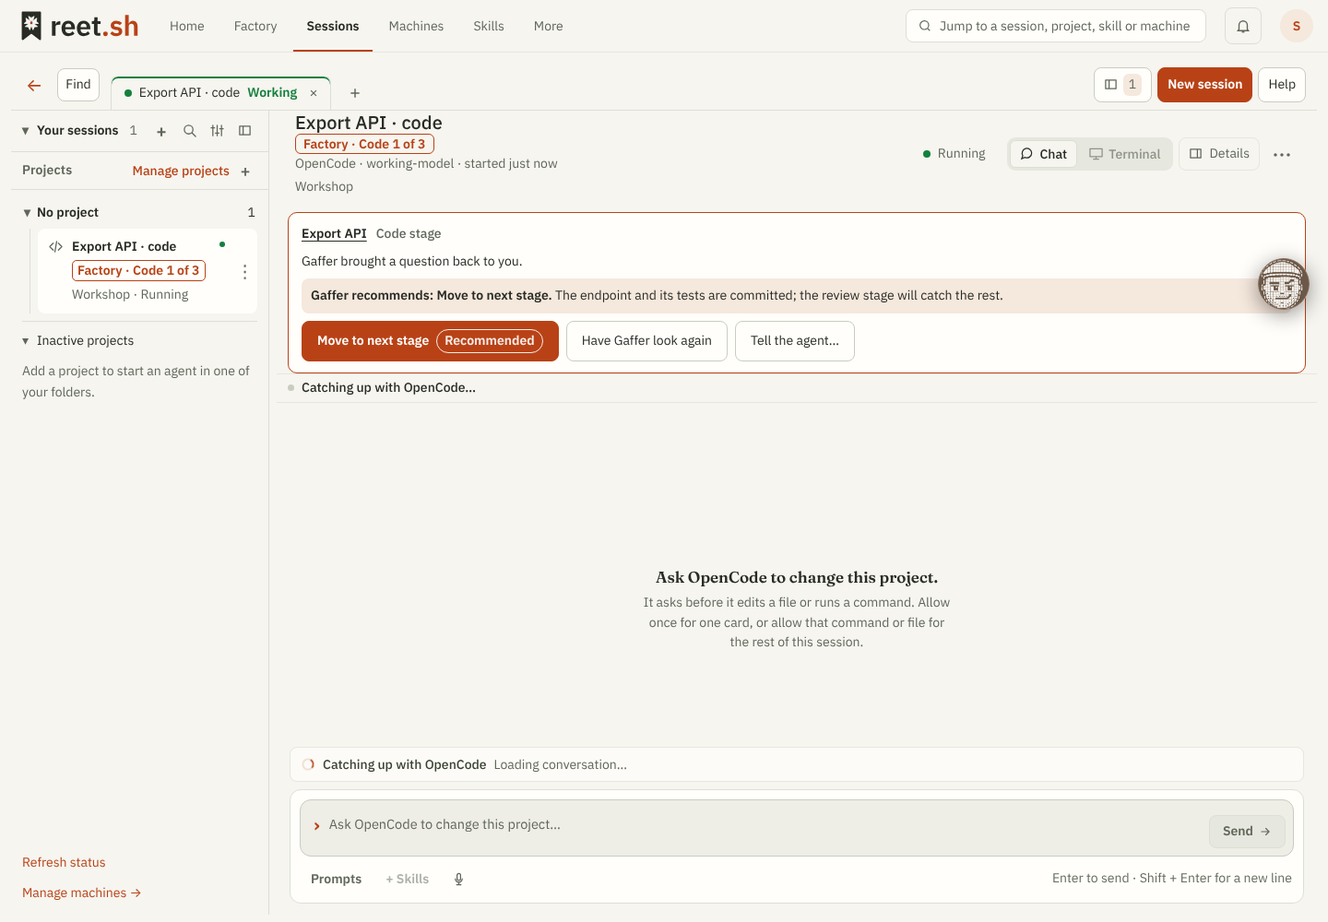
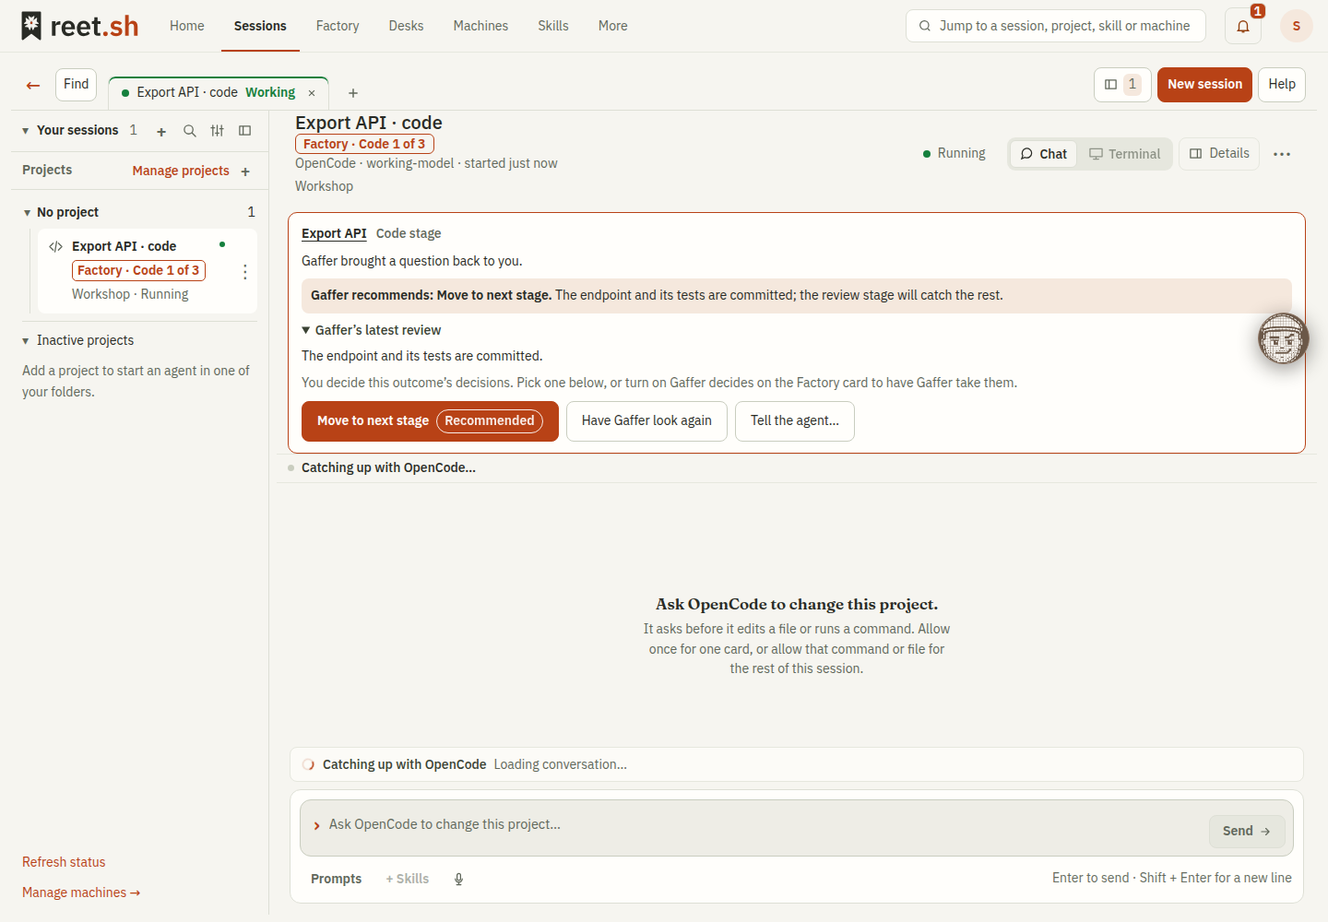
Ask again for a lost Factory decision and say who decides (#854)

diff --git a/web/src/lib/factory/SessionDecision.svelte b/web/src/lib/factory/SessionDecision.svelte
@@ -34,6 +34,15 @@
   const choices = $derived((waiting?.need.choices ?? []).filter(choice => choice.id !== 'open' && choice.id !== 'answer' && (choice.id !== 'move' || waiting?.piece.state === 'following') && (choice.id !== 'tell' || waiting?.kind === 'goal')))
   const goal = $derived(waiting?.piece.conversationId ? goals.get(waiting.piece.conversationId) : undefined)
   const used = $derived(waiting?.piece.stages?.[waiting.piece.stage ?? 0]?.decided ?? 0)
+  const taken = $derived(record?.decisions ?? [])
+  const kind = $derived(waiting?.piece.stages?.[waiting.piece.stage ?? 0]?.kind ?? '')
+  // Why Gaffer is leaving this to the person, so the card answers "why is it not sending this itself?" and says what to
+  // do about it. A lost session or a merge is the person's whatever the outcome's decisions setting is.
+  const note = $derived(waiting?.kind !== 'goal' || !record ? '' : !record.automation
+    ? 'You decide this outcome’s decisions. Pick one below, or turn on Gaffer decides on the Factory card to have Gaffer take them.'
+    : used >= MAX_STAGE_DECISIONS ? `Gaffer has taken its ${MAX_STAGE_DECISIONS} decisions on this stage, so this one is yours. Pick one below.`
+    : used > 0 && taken.some(item => item.failed && item.key === waiting.piece.key && item.stage === kind) ? 'Gaffer left this one to you. Pick one below; its reason is on the Factory card.'
+    : 'Gaffer is deciding this now. You can still choose first.')
   const requestId = () => Array.from(crypto.getRandomValues(new Uint8Array(16)), byte => byte.toString(16).padStart(2, '0')).join('')
   const fail = (e: unknown, fallback: string) => { bad = true; notice = e instanceof Error ? e.message : fallback }
   async function act(run: () => Promise<string>, fallback: string) {
@@ -81,8 +90,8 @@
 </script>
 
 {#if waiting && choices.length}<div class="session-decision">
-  <Decision title={waiting.piece.title} stage={waiting.stage} href={card} need={waiting.need} {choices} {busy} onchoose={choose}
-    note={!record?.automation || waiting.kind === 'merge' ? '' : used >= MAX_STAGE_DECISIONS ? `Gaffer has taken its ${MAX_STAGE_DECISIONS} decisions on this stage, so this one is yours.` : 'Gaffer is deciding this. You can still choose first.'}/>
+  <Decision title={waiting.piece.title} stage={waiting.stage} href={card} need={waiting.need} {choices} {busy} onchoose={choose} {note}
+    review={goal?.goal.summary ?? ''}/>
 </div>{/if}
 {#if notice}<p class="session-decision-note" class:bad role={bad ? 'alert' : 'status'}>{notice}</p>{/if}
 {#if moving && waiting}<ConfirmDialog title={`Move “${waiting.piece.title}” on?`} body="This closes the stage in hand as it stands and starts the next stage in a session of its own. Gaffer’s review of this stage is not waited for." confirmLabel="Move on" onconfirm={() => void moveOn()} oncancel={() => moving = false}/>{/if}

diff --git a/web/src/lib/factory/Decision.svelte b/web/src/lib/factory/Decision.svelte
@@ -3,11 +3,13 @@
   // the recommended one first. The same block is shown at the head of an outcome's card and in the pipeline's session.
   import type { Need, NeedChoice } from '../gafferOutcome'
 
-  let { title, stage = '', href = '', need, choices = need.choices, note = '', busy = false, onchoose }: {
+  let { title, stage = '', href = '', need, choices = need.choices, note = '', review = '', busy = false, onchoose }: {
     /** The pipeline the decision is about. */
     title: string; stage?: string; /** Where the pipeline's own card is, when this block is not on it. */ href?: string
     need: Need; /** The choices that can be taken here; the caller leaves out any that cannot. */ choices?: NeedChoice[]
     /** Anything else worth saying about who is deciding. */ note?: string
+    /** Gaffer's latest review of the stage, made readable here when the note points the person at it. */
+    review?: string
     busy?: boolean; onchoose: (choice: NeedChoice) => void
   } = $props()
   // The instruction Gaffer would give is only worth showing when telling the agent is what it recommends.
@@ -18,6 +20,7 @@
   <p class="about">{#if href}<a href={href}>{title}</a>{:else}<strong>{title}</strong>{/if}{#if stage}<span class="stage">{stage} stage</span>{/if}</p>
   <p class="why">{need.why}</p>
   {#if advice}<p class="advice"><strong>Gaffer recommends: {advice.label.replace(/…$/, '')}.</strong> {advice.why}{#if advice.text}<span class="text">It would say: “{advice.text}”</span>{/if}</p>{/if}
+  {#if review}<details class="review"><summary>Gaffer’s latest review</summary><p>{review}</p></details>{/if}
   {#if note}<p class="note">{note}</p>{/if}
   <div class="choices" role="group" aria-label={`Choices for ${title}`} data-floating-clearance>
     {#each choices as choice (choice.id)}<button class="btn" class:primary={choice.recommended} type="button" disabled={busy} onclick={() => onchoose(choice)}>{choice.label}{#if choice.recommended}{' '}<span class="rec">Recommended</span>{/if}</button>{/each}
@@ -30,6 +33,7 @@
   .stage{font-weight:500;color:var(--muted)}
   .why{margin:0;color:var(--ink);overflow-wrap:anywhere}
   .advice{margin:0;padding:8px 10px;border-radius:8px;background:var(--tint);color:var(--ink);overflow-wrap:anywhere}.advice .text{display:block;margin-top:4px;color:var(--muted)}
+  .review{margin:0;color:var(--muted)}.review summary{cursor:pointer;color:var(--ink-soft);font-weight:500}.review p{margin:6px 0 0;color:var(--ink);overflow-wrap:anywhere;white-space:pre-wrap}
   .note{margin:0;color:var(--muted)}
   .choices{display:flex;flex-wrap:wrap;gap:8px}.choices .btn{min-height:44px;display:inline-flex;align-items:center;gap:8px}
   .rec{font-size:0.875rem;font-weight:600;padding:1px 8px;border-radius:999px;border:1px solid currentColor;opacity:.9}

diff --git a/web/src/lib/factory/PipelineDetail.svelte b/web/src/lib/factory/PipelineDetail.svelte
@@ -109,7 +109,10 @@
   // Gaffer's latest review sits with what waits when it is why the pipeline waits, and with the stage otherwise.
   const reviewWaits = $derived(item.section === 'waiting' && !lost && status.label === 'Needs you' && !!goal)
   const used = $derived(inHand?.decided ?? 0)
-  const gafferNote = $derived(record.archivedAt || !record.automation || item.kind === 'merge' ? '' : goal?.goal.waitingOnWorker ? (used >= MAX_STAGE_DECISIONS ? '' : 'If the agent is asking a multiple-choice question and nothing else, Gaffer answers it. You can still answer first.') : used >= MAX_STAGE_DECISIONS ? `Gaffer has taken its ${MAX_STAGE_DECISIONS} decisions on this stage, so this one is yours.` : taken.some(d => d.failed && d.key === piece.key) && used > 0 ? 'Gaffer could not take this one. See what it decided, below.' : 'Gaffer is deciding this. You can still choose first.')
+  // A decision Gaffer could not take, or chose to leave, keeps this stop with the person; saying it is deciding would be
+  // a promise nothing is going to keep.
+  const leftToYou = $derived(used > 0 && taken.some(d => d.failed && d.key === piece.key && d.stage === inHand?.kind))
+  const gafferNote = $derived(record.archivedAt || !record.automation || item.kind === 'merge' ? '' : leftToYou ? 'Gaffer left this one to you. See what it decided, below.' : goal?.goal.waitingOnWorker ? (used >= MAX_STAGE_DECISIONS ? '' : 'If the agent is asking a multiple-choice question and nothing else, Gaffer answers it. You can still answer first.') : used >= MAX_STAGE_DECISIONS ? `Gaffer has taken its ${MAX_STAGE_DECISIONS} decisions on this stage, so this one is yours.` : 'Gaffer is deciding this. You can still choose first.')
 
   // One bar: the choices of what waits, then the buttons a pipeline has today, each only once. A choice and a button
   // that do the same thing share a key. Opening the session is a link (`href`).

diff --git a/web/src/lib/sessions/SessionScreen.svelte b/web/src/lib/sessions/SessionScreen.svelte
@@ -516,7 +516,14 @@
   .session-screen { flex: 1; min-height: 0; min-width: 0; display: flex; flex-direction: column; background: var(--bg); container: session-screen / inline-size; }
   .body { flex: 1; min-height: 0; display: grid; grid-template-columns: minmax(0, 1fr) auto; grid-template-rows: auto auto minmax(0, 1fr); }
   .head { grid-column: 1; grid-row: 1; }
-  .below-head { grid-column: 1; grid-row: 2; min-width: 0; }
+  .below-head { grid-column: 1; grid-row: 2; min-width: 0; min-height: 0; }
+  /* A long Factory decision sits above the conversation. On a phone (or a sideways one) it keeps a bounded height and
+     scrolls itself, so its own choices stay reachable instead of being clipped by the fixed-height workspace. */
+  @media (max-width: 767px), (max-height: 500px) and (pointer: coarse) and (orientation: landscape) {
+    .below-head { max-height: 55dvh; overflow-y: auto; overscroll-behavior: contain; }
+    /* While a long decision scrolls, its choices stay at the foot of the block: the next step is always in reach. */
+    .below-head :global(.choices) { position: sticky; bottom: 0; z-index: 1; background: var(--card); box-shadow: 0 -10px 14px -10px var(--scrim); }
+  }
   .stage { grid-column: 1; grid-row: 3; }
   /* The context panel is hidden until JS says it is docked or shown as a sheet; either way it keeps the same cell it
      always had beside the terminal's right edge. */

diff --git a/internal/gaffer/outcome_decide_test.go b/internal/gaffer/outcome_decide_test.go
@@ -149,6 +149,98 @@ func TestGafferDecidesEachStopOnceAndOnlyAmongTheStagesChoices(t *testing.T) {
 	}
 }
 
+// A controller that stopped between claiming a stop and recording Gaffer's
+// decision must not leave the pipeline waiting for ever: a claim older than
+// the model's bound is put to Gaffer again, and asking again does not spend
+// another of the stage's three decisions.
+func TestAStopWhoseAnswerNeverCameIsAskedAgain(t *testing.T) {
+	r := outcomeFixture(t)
+	var calls atomic.Int32
+	decideWith(r, &calls, "decide", `{"choice":"move","why":"The endpoint and its tests are in the handover."}`)
+	r.s.StartGoalSupervisor()
+	created, err := r.s.CreateOutcome(r.p.UserID, pipelineInput(r, false))
+	if err != nil {
+		t.Fatal(err)
+	}
+	code := r.piece(t, created.ID, func(p store.GafferOutcomeSession) bool { return p.State == "following" })
+	stopStage(t, r, code)
+	o := mustOutcome(t, r, created.ID)
+	stop, ok := r.s.pipelineStop(o, o.Sessions[0])
+	if !ok {
+		t.Fatalf("the stopped stage has no decision to ask: %+v", o.Sessions[0])
+	}
+	// The claim a controller that died between the request and the decision leaves behind.
+	if _, err = r.s.outcomeStep(r.p.UserID, created.ID, func(o *store.GafferOutcome) bool {
+		stage := &o.Sessions[0].Stages[0]
+		stage.Decided, stage.DecidedFor = 1, stop.sign
+		stage.DecidingSince = time.Now().Add(-3 * decisionClaimTTL).UnixMilli()
+		return true
+	}); err != nil {
+		t.Fatal(err)
+	}
+	if _, err = r.s.SetOutcomeAutomation(r.p.UserID, created.ID, mustOutcome(t, r, created.ID).Revision, true); err != nil {
+		t.Fatal(err)
+	}
+	got := decisions(t, r, created.ID, 1)[0]
+	if got.Choice != "move" || got.Failed || calls.Load() != 1 {
+		t.Fatalf("the lost stop was not asked again: calls %d, %+v", calls.Load(), got)
+	}
+	if used := mustOutcome(t, r, created.ID).Sessions[0].Stages[0].Decided; used != 1 {
+		t.Fatalf("asking a lost stop again spent another decision: %d", used)
+	}
+}
+
+// A fresh claim is left alone (Gaffer is still thinking), and a claim a failed
+// decision already answered is not asked again: both leave the stop with the
+// person only when it is truly theirs.
+func TestAStopIsNotAskedAgainWhileClaimedOrOnceAnswered(t *testing.T) {
+	r := outcomeFixture(t)
+	var calls atomic.Int32
+	decideWith(r, &calls, "decide", `{"choice":"move","why":"It is finished."}`)
+	r.s.StartGoalSupervisor()
+	created, err := r.s.CreateOutcome(r.p.UserID, pipelineInput(r, false))
+	if err != nil {
+		t.Fatal(err)
+	}
+	code := r.piece(t, created.ID, func(p store.GafferOutcomeSession) bool { return p.State == "following" })
+	stopStage(t, r, code)
+	o := mustOutcome(t, r, created.ID)
+	stop, ok := r.s.pipelineStop(o, o.Sessions[0])
+	if !ok {
+		t.Fatalf("the stopped stage has no decision to ask: %+v", o.Sessions[0])
+	}
+	key := o.Sessions[0].Key
+	claim := func(since int64, failed bool) {
+		t.Helper()
+		if _, err := r.s.outcomeStep(r.p.UserID, created.ID, func(o *store.GafferOutcome) bool {
+			stage := &o.Sessions[0].Stages[0]
+			stage.Decided, stage.DecidedFor, stage.DecidingSince = 1, stop.sign, since
+			if failed {
+				o.Decide(store.GafferOutcomeDecision{At: since + 1, Key: key, Stage: stage.Kind, About: "question", Failed: true, Why: "Gaffer could not take this decision."})
+			}
+			return true
+		}); err != nil {
+			t.Fatal(err)
+		}
+	}
+	claim(time.Now().UnixMilli(), false)
+	if _, err = r.s.SetOutcomeAutomation(r.p.UserID, created.ID, mustOutcome(t, r, created.ID).Revision, true); err != nil {
+		t.Fatal(err)
+	}
+	time.Sleep(120 * time.Millisecond)
+	if calls.Load() != 0 || len(mustOutcome(t, r, created.ID).Decisions) != 0 {
+		t.Fatalf("a stop still being decided was asked again: calls %d", calls.Load())
+	}
+
+	// The claim is old now, but a failed decision already answers it.
+	claim(time.Now().Add(-3*decisionClaimTTL).UnixMilli(), true)
+	r.s.autoDecisions(context.Background())
+	time.Sleep(80 * time.Millisecond)
+	if calls.Load() != 0 {
+		t.Fatalf("a stop Gaffer already left to the person was asked again: %d", calls.Load())
+	}
+}
+
 // What a stage's stop offers Gaffer: never a merge, never an agent's own
 // question, and a new budget only once.
 func TestWhatGafferMayDecideForAStoppedStage(t *testing.T) {

diff --git a/internal/gaffer/outcome_decide.go b/internal/gaffer/outcome_decide.go
@@ -18,6 +18,25 @@ import (
 // outcome whose decisions it was given. After that the stage is the person's.
 const maxStageDecisions = 3
 
+// decisionClaimTTL is how long a stop put to Gaffer waits for its answer before
+// it is put again. A model request is bounded to 90 seconds; two minutes also
+// covers a controller that stopped between claiming a stop and recording what
+// Gaffer decided, so no pipeline waits for a decision that is never coming.
+const decisionClaimTTL = 2 * time.Minute
+
+// decisionAnswersStop reports whether one of Gaffer's recorded decisions already
+// answers a claimed stop on a pipeline stage. A claim made before DecidingSince
+// was recorded (since 0) is answered by any decision on that stage, which keeps
+// a stop Gaffer already left to the person from being asked again.
+func decisionAnswersStop(o store.GafferOutcome, key, kind string, since int64) bool {
+	for _, d := range o.Decisions {
+		if d.Key == key && d.Stage == kind && (since == 0 || d.At >= since) {
+			return true
+		}
+	}
+	return false
+}
+
 // The choices Gaffer can take for the person. They are the person's own
 // buttons on a pipeline that has stopped, less the ones that are only theirs:
 // opening a session, stopping the outcome, a merge.
@@ -106,16 +125,17 @@ func (s *Service) autoDecisions(ctx context.Context) {
 				return
 			}
 			stop, ok := s.pipelineStop(o, piece)
-			if !ok || piece.Stages[piece.Stage].DecidedFor == stop.sign {
+			if !ok {
 				continue
 			}
 			p, err := s.chatPrincipal(o.OwnerID)
 			if err != nil {
 				continue
 			}
-			// Recorded before the request, as a report's event is: a slow or
-			// failed request is not asked again, and only the look that
-			// recorded the stop asks.
+			// Recorded before the request, as a report's event is, so a slow
+			// request is not asked twice; only the look that recorded the
+			// stop asks. A claim whose answer never comes back is asked
+			// again once decisionClaimTTL has passed.
 			key, at, recorded := piece.Key, piece.Stage, false
 			if _, err = s.outcomeStep(o.OwnerID, o.ID, func(o *store.GafferOutcome) bool {
 				recorded = false
@@ -125,10 +145,25 @@ func (s *Service) autoDecisions(ctx context.Context) {
 						continue
 					}
 					stage := &row.Stages[row.Stage]
-					if stage.DecidedFor == stop.sign || stage.Decided >= maxStageDecisions {
+					if stage.Decided >= maxStageDecisions {
 						return false
 					}
-					stage.DecidedFor, stage.Decided = stop.sign, stage.Decided+1
+					now := time.Now().UnixMilli()
+					if stage.DecidedFor == stop.sign {
+						// A stop already put to Gaffer is not asked again, unless its answer never came back
+						// (the controller stopped between the claim and the decision). Then it is asked again
+						// without spending another of the stage's decisions.
+						if stage.DecidingSince == 0 {
+							if decisionAnswersStop(*o, row.Key, stage.Kind, 0) {
+								return false
+							}
+						} else if now-stage.DecidingSince < decisionClaimTTL.Milliseconds() || decisionAnswersStop(*o, row.Key, stage.Kind, stage.DecidingSince) {
+							return false
+						}
+					} else {
+						stage.Decided++
+					}
+					stage.DecidedFor, stage.DecidingSince = stop.sign, now
 					recorded = true
 					return true
 				}

diff --git a/internal/store/store_gaffer_outcomes.go b/internal/store/store_gaffer_outcomes.go
@@ -113,8 +113,12 @@ type GafferOutcomeStage struct {
 	Decided       int    `json:"decided,omitempty"`
 	BudgetRenewed bool   `json:"budgetRenewed,omitempty"`
 	DecidedFor    string `json:"decidedFor,omitempty"`
-	StartedAt     int64  `json:"startedAt,omitempty"`
-	EndedAt       int64  `json:"endedAt,omitempty"`
+	// DecidingSince is when the stop named by DecidedFor was put to Gaffer, so
+	// a controller that stopped before it recorded the decision asks again
+	// instead of leaving the pipeline waiting for ever.
+	DecidingSince int64 `json:"decidingSince,omitempty"`
+	StartedAt     int64 `json:"startedAt,omitempty"`
+	EndedAt       int64 `json:"endedAt,omitempty"`
 	// What Gaffer's own model used following this stage, recorded when the
 	// stage was handed over. It is Gaffer's usage, not the working agent's.
 	Reviews       int  `json:"reviews,omitempty"`

diff --git a/handoff.md b/handoff.md
@@ -1,5 +1,42 @@
 # Reet central-control implementation handoff
 
+## FACTORY-DECISION-1: a lost decision is asked again, and the session says who decides (20 November 2026)
+
+The owner sent a phone screenshot of a Factory stage's decision in its session: the recommendation and its instruction
+filled the screen, the buttons sat under the fixed-height workspace where nothing could scroll them into view, and the
+card only said "Gaffer needs your decision" on an outcome they believed Gaffer was deciding. They asked what had
+happened and what they had to do.
+
+**Why it was not sending itself.** Two defects, not a missing feature. A stop is claimed before Gaffer's model is asked
+so a slow request is not asked twice; if the controller stopped between that claim and recording the choice, the claim
+stayed and `autoDecisions` skipped the stop for ever while the session said "Gaffer is deciding". The stage now records
+`decidingSince`, and a claim with no recorded decision is asked again after `decisionClaimTTL` (two minutes) without
+spending another of the stage's three decisions. A decision that failed is still recorded, answers the claim and stays
+with the person. The second: the Factory card said "Gaffer is deciding this" even after a failed or left-to-the-person
+decision; both the card and the session now say it is yours and point at what Gaffer decided.
+
+**Reading the card.** The session card for a goal stop now always says who decides: "You decide this outcome's
+decisions. Pick one below, or turn on Gaffer decides on the Factory card…", the three-decision cap, that Gaffer left it
+to you (with its reason on the Factory card), or that Gaffer is deciding now. Gaffer's latest review opens in place
+under **Gaffer's latest review** instead of telling the person to read a review the session did not show. On a phone
+the decision block keeps a bounded height and scrolls, and the choices stick to its foot, so a long recommendation
+cannot bury its own buttons. A lost session or a merge carries no decisions note: those are the person's whatever the
+setting.
+
+**Data.** `GafferOutcomeStage.DecidingSince` (`decidingSince` in the outcome JSON; absent in older records, which are
+treated as stale claims). No migration; older records are read as before.
+
+**Tests.** `go test ./internal/gaffer` (including `TestAStopWhoseAnswerNeverCameIsAskedAgain` and
+`TestAStopIsNotAskedAgainWhileClaimedOrOnceAnswered`), `go test ./internal/store`, `go vet ./...`,
+`go test -race ./...`, `cd web && npm run check`, and against `vite preview`: `factory-decision.e2e.mjs` (including a
+long recommendation at 390 whose last choice must scroll into view), `gaffer-factory.e2e.mjs`,
+`gaffer-factory-session.e2e.mjs`, `factory-pieces.e2e.mjs` and `session-workspace.e2e.mjs`.
+
+**Docs.** [Factory](docs/factory.md), [Gaffer AI](docs/gaffer-ai.md), [UI verification](docs/ui-verification.md) and
+the changelog.
+
+**PR.** Opened against `main`; the checks and captures above are this PR's. Its merge is recorded by the next handoff
+update.
 ## PLAN-JOB-1: a Gaffer plan survives a proxy that gives up waiting (20 November 2026)
 
 **Merged.** [#851](https://github.com/eyupio/reet.sh/pull/851) as `da10b002`. Every required check on the final head passed.

diff --git a/docs/ui-verification.md b/docs/ui-verification.md
@@ -1,5 +1,29 @@
 # UI verification — 4 November 2026
 
+## A Factory decision in its session (20 November 2026)
+
+What changed is in [handoff.md](../handoff.md) (FACTORY-DECISION-1); what a person sees is in
+[Factory](factory.md#gaffer-decides).
+
+The fixture in `web/tests/factory-decision.e2e.mjs`: a code stage whose review recommends telling the agent, at 1440
+light and 390 dark. Checked: the card names the stage and why it stopped, **Gaffer recommends** with its reason,
+**Gaffer's latest review** opening in place, the note that says **You decide this outcome's decisions** and how to
+hand them to Gaffer, and the choices. At 390 with a long recommendation the block scrolls and the last choice can be
+brought into view and pressed; the choices stay at its foot while the review scrolls.
+
+Seen and fixed while looking: the long card was taller than the fixed-height workspace and its buttons were clipped
+with nothing to scroll; the block now keeps a bounded height and scrolls itself. The session card also repeated the
+dead end "Read its latest review" without showing it, and said nothing about who was deciding.
+
+Commands run in this container: `npm --prefix web run check` (unit tests and svelte-check: zero errors and warnings),
+`npm --prefix web run build`, `go vet ./...`, `go test -race ./...`, and `factory-decision.e2e.mjs`,
+`gaffer-factory.e2e.mjs`, `gaffer-factory-session.e2e.mjs`, `factory-pieces.e2e.mjs` and `session-workspace.e2e.mjs`
+against `vite preview` with the container's Chromium. Fixtures only; no real controller, machine or paid AI provider
+was contacted.
+
+![A Factory decision at 390, dark](images/ui/factory-decision-390-dark.png)
+![A long Factory decision at 390, light](images/ui/factory-decision-long-390.png)
+
 ## Retire the old skill-sync web controls (20 November 2026, PR #850)
 
 The continuation removes Advanced sync, per-machine selections, preview/approve

diff --git a/docs/factory.md b/docs/factory.md
@@ -189,7 +189,8 @@ item on a tablet or phone. Nothing happens until you choose.
 - **Give it a new budget** appears when the stage used its reviews or its time.
 - **Run this stage again in a new session** appears when the stage's session was ended.
 
-The same decisions are in the pipeline's session, under its header.
+The same decisions are in the pipeline's session, under its header, with Gaffer's latest review to read in place and a
+line saying who decides and, when it is not Gaffer, how to hand it the decisions.
 
 ### Gaffer decides
 
@@ -202,6 +203,8 @@ switch at any time.
 - Gaffer also answers an agent's multiple-choice question, choosing among the options the agent offered, or leaves it
   to you with its reason.
 - It takes at most three decisions on a stage. After that the stage is yours and the detail says so.
+- A stop whose answer never came back, because the controller restarted while Gaffer was deciding, is asked again
+  after two minutes. That does not spend another of the stage's three.
 - It never decides a merge, never answers an approval, never answers a question that needs your own words and never
   stops an outcome.
 - Each decision is one request to Gaffer's model. The detail's **What Gaffer decided** row lists each one with what it

diff --git a/CHANGELOG.md b/CHANGELOG.md
@@ -5,6 +5,13 @@ this file existed releases were described on their GitHub release pages.
 
 ## Unreleased
 
+- **Factory decisions**: a stage decision shown in its session now says who is taking it and why. When Gaffer is not
+  going to send the choice itself it says so: this outcome is **You decide** (and how to hand it over), the stage has
+  used Gaffer's three decisions, Gaffer left this one to you, or Gaffer is deciding now. **Gaffer's latest review**
+  opens in the card instead of pointing at a review the session did not show. On a phone the card keeps a bounded
+  height, scrolls and keeps its choices at the foot, so a long recommendation no longer hides the buttons. A stop whose
+  request was lost when the controller restarted is asked again after two minutes without using another of the three
+  decisions.
 - **Gaffer planning behind a proxy**: asking Gaffer for a Factory plan no longer
   holds one request open while the model thinks. The controller starts the plan
   in the background and the browser reads it in short polls, so a reverse proxy

diff --git a/docs/gaffer-ai.md b/docs/gaffer-ai.md
@@ -416,8 +416,10 @@ setting), never answers an approval to run a command or change a file (that
 stays with **Ask me** or YOLO), never answers a question while an approval is
 waiting beside it, and never stops an outcome. It takes at most three decisions on one stage; after that the
 stage is yours and the detail says so. A decision Gaffer could not make or carry
-out is left with you, with the reason. You can always choose first: the
-buttons stay.
+out is left with you, with the reason. A stop whose request never came back,
+because the controller stopped between asking and recording the choice, is
+asked again once two minutes have passed and does not count as another of the
+three. You can always choose first: the buttons stay.
 
 **What Gaffer decided**, a row of the pipeline's detail, lists every decision
 with its time, pipeline and stage, what had stopped the stage, what Gaffer did
